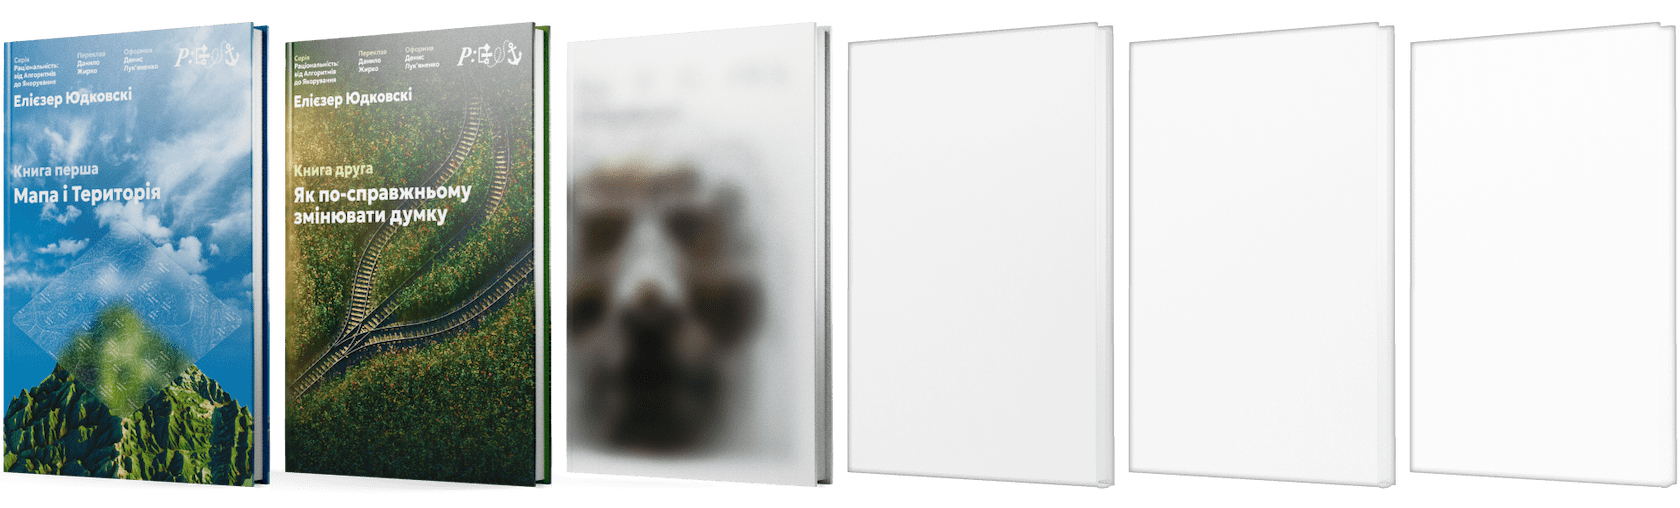
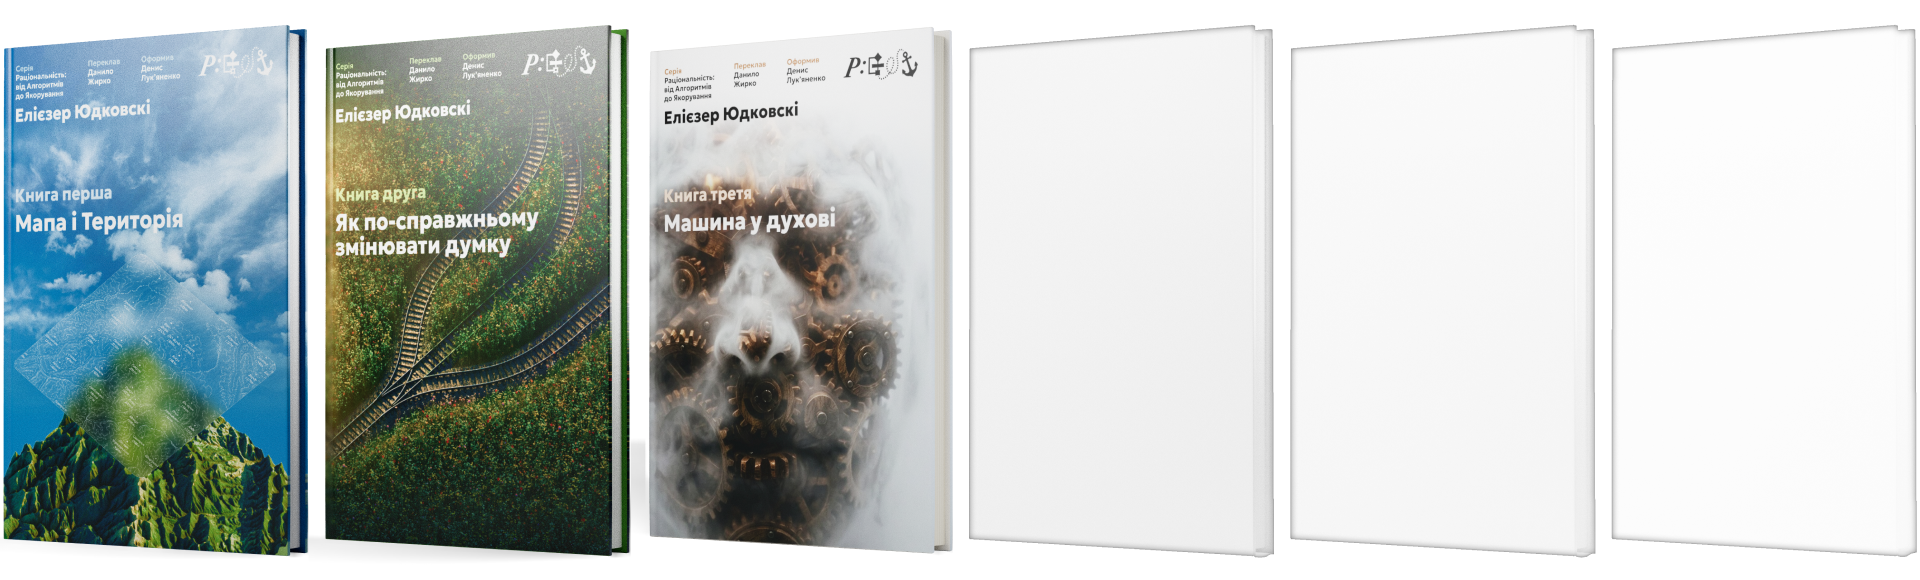
Оновив постер

diff --git a/README.md b/README.md
@@ -1,5 +1,5 @@
 # Раціональність: від Алгоритмів до Якорування
-![Poster](./assets/Poster.png)
+![Poster](./assets/images/Poster.png)
 <p align="center">
     <a href="https://plvn.app/uk/rationality">Читати онлайн</a> | <a href="./SELFPUBLISHING.md">Замовити друковану</a> | <a href="./assets/">Завантажити у PDF</a>
 </p>
